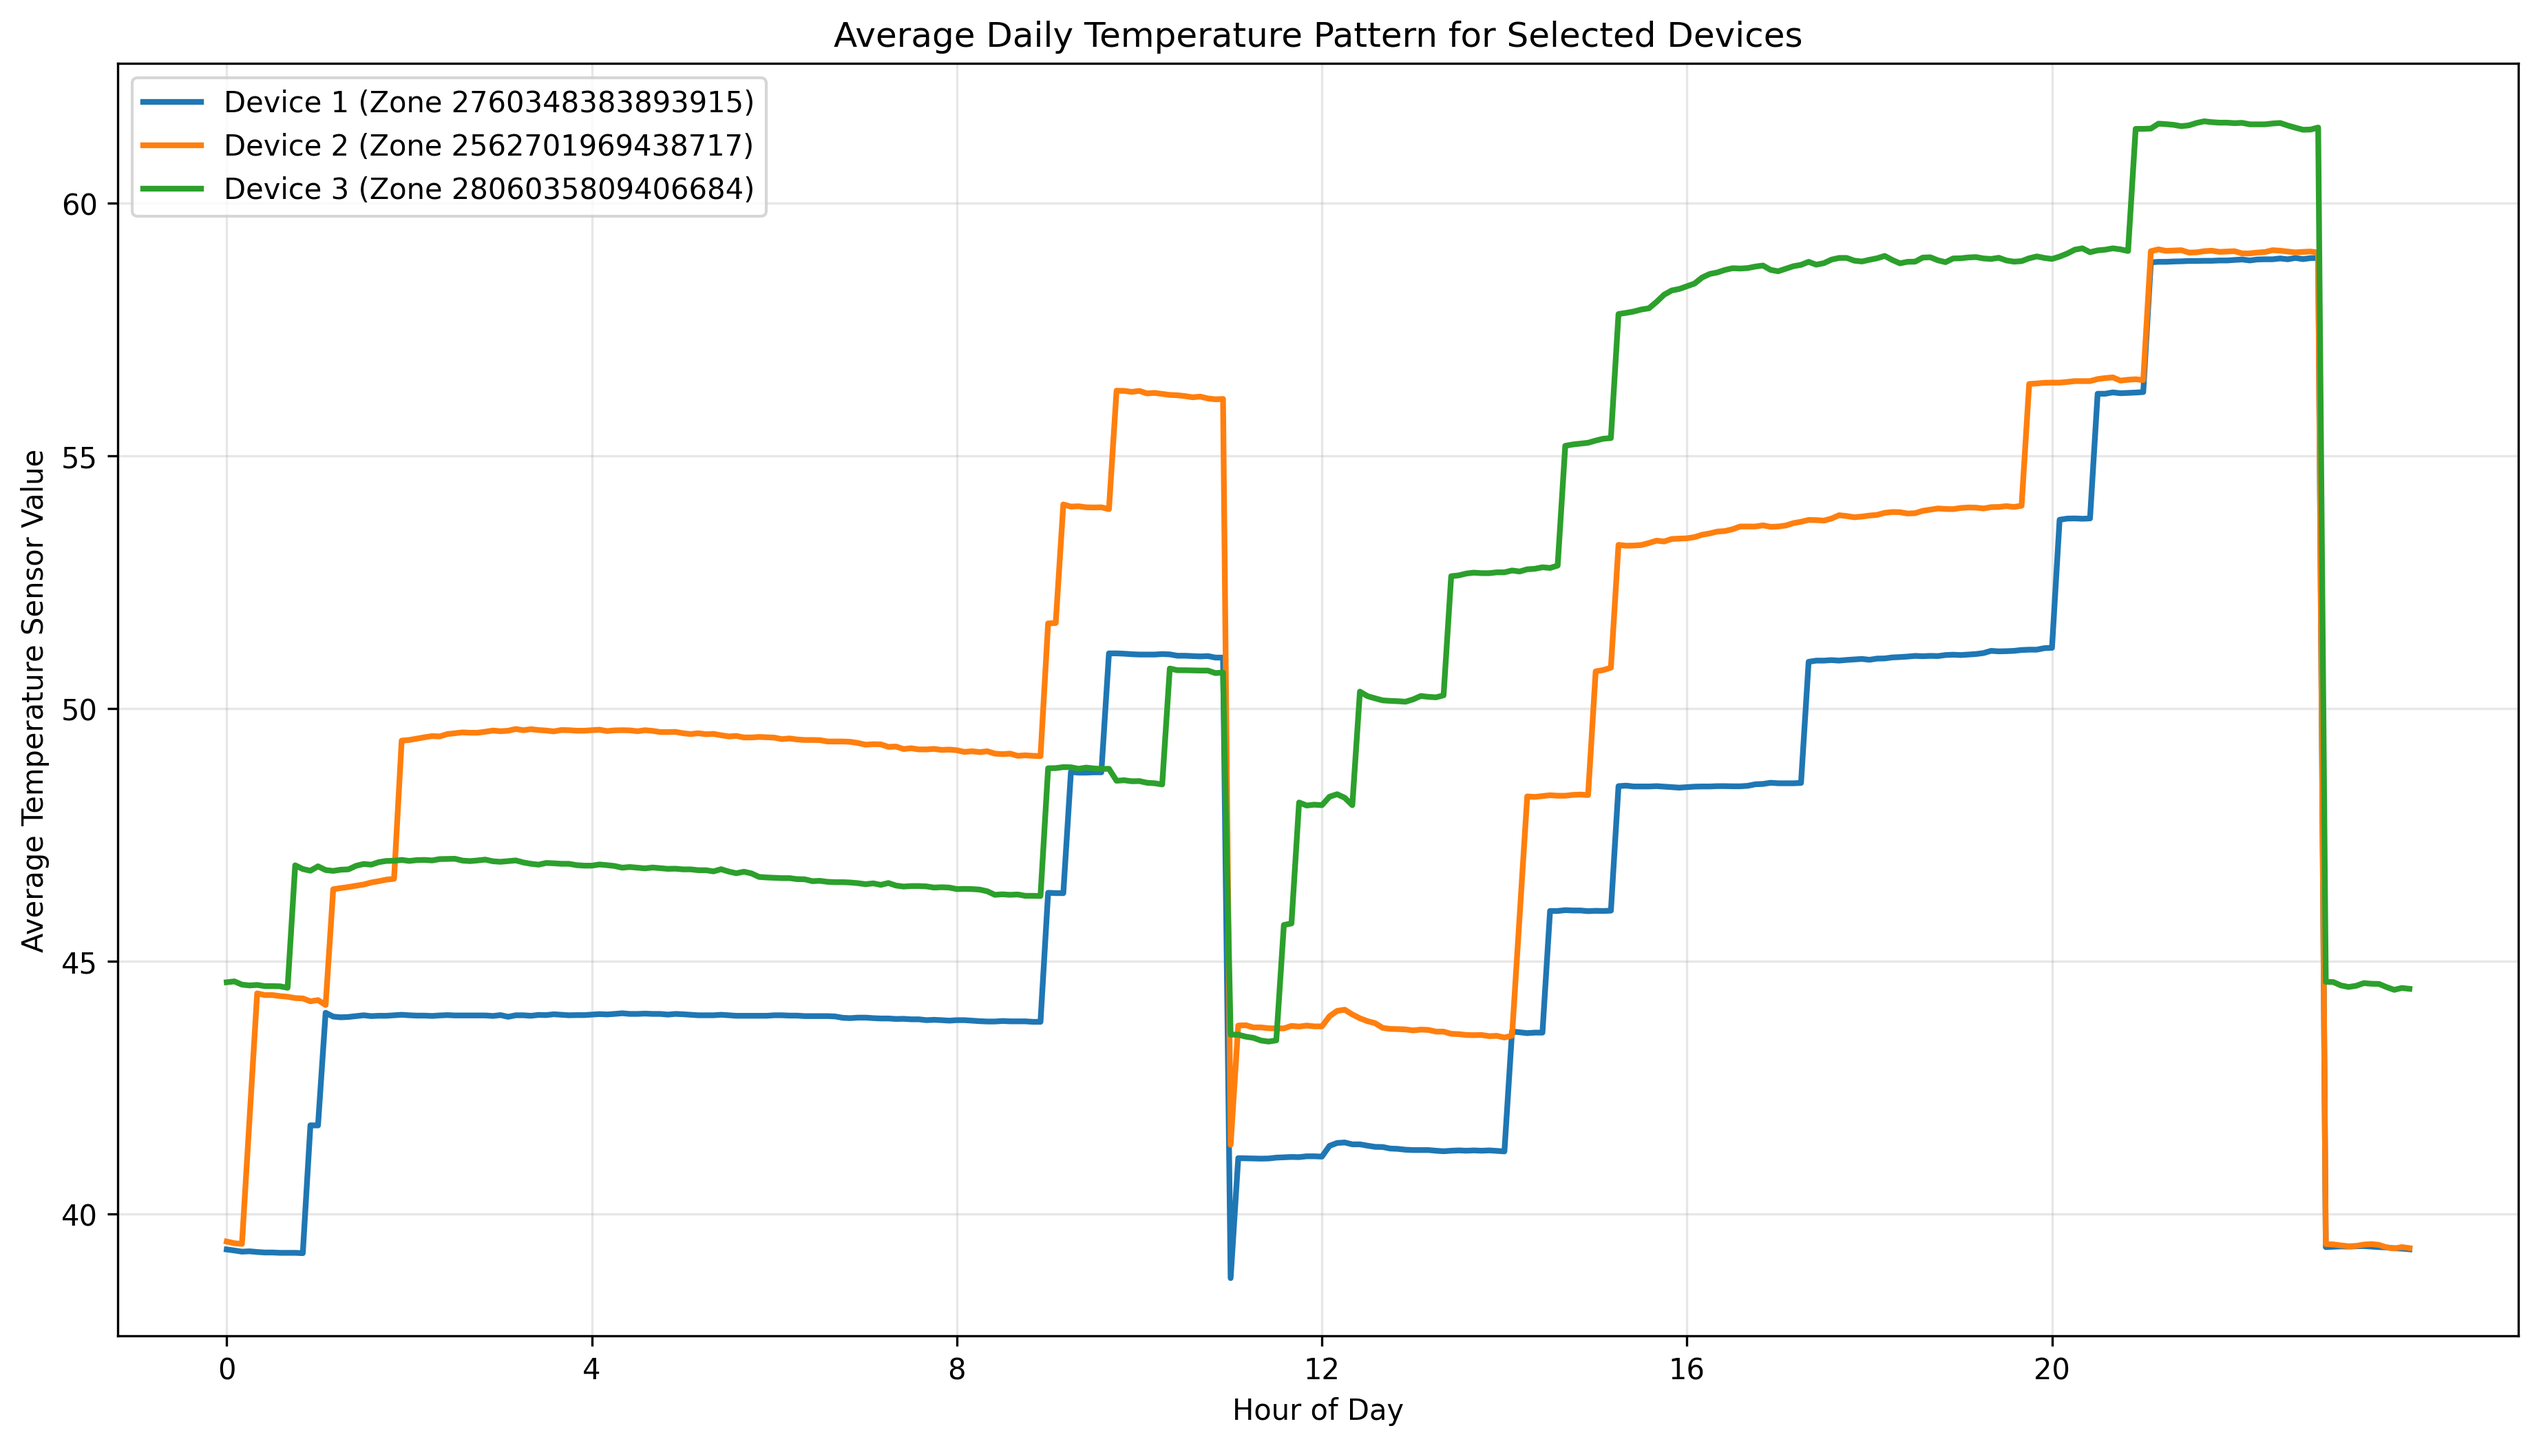
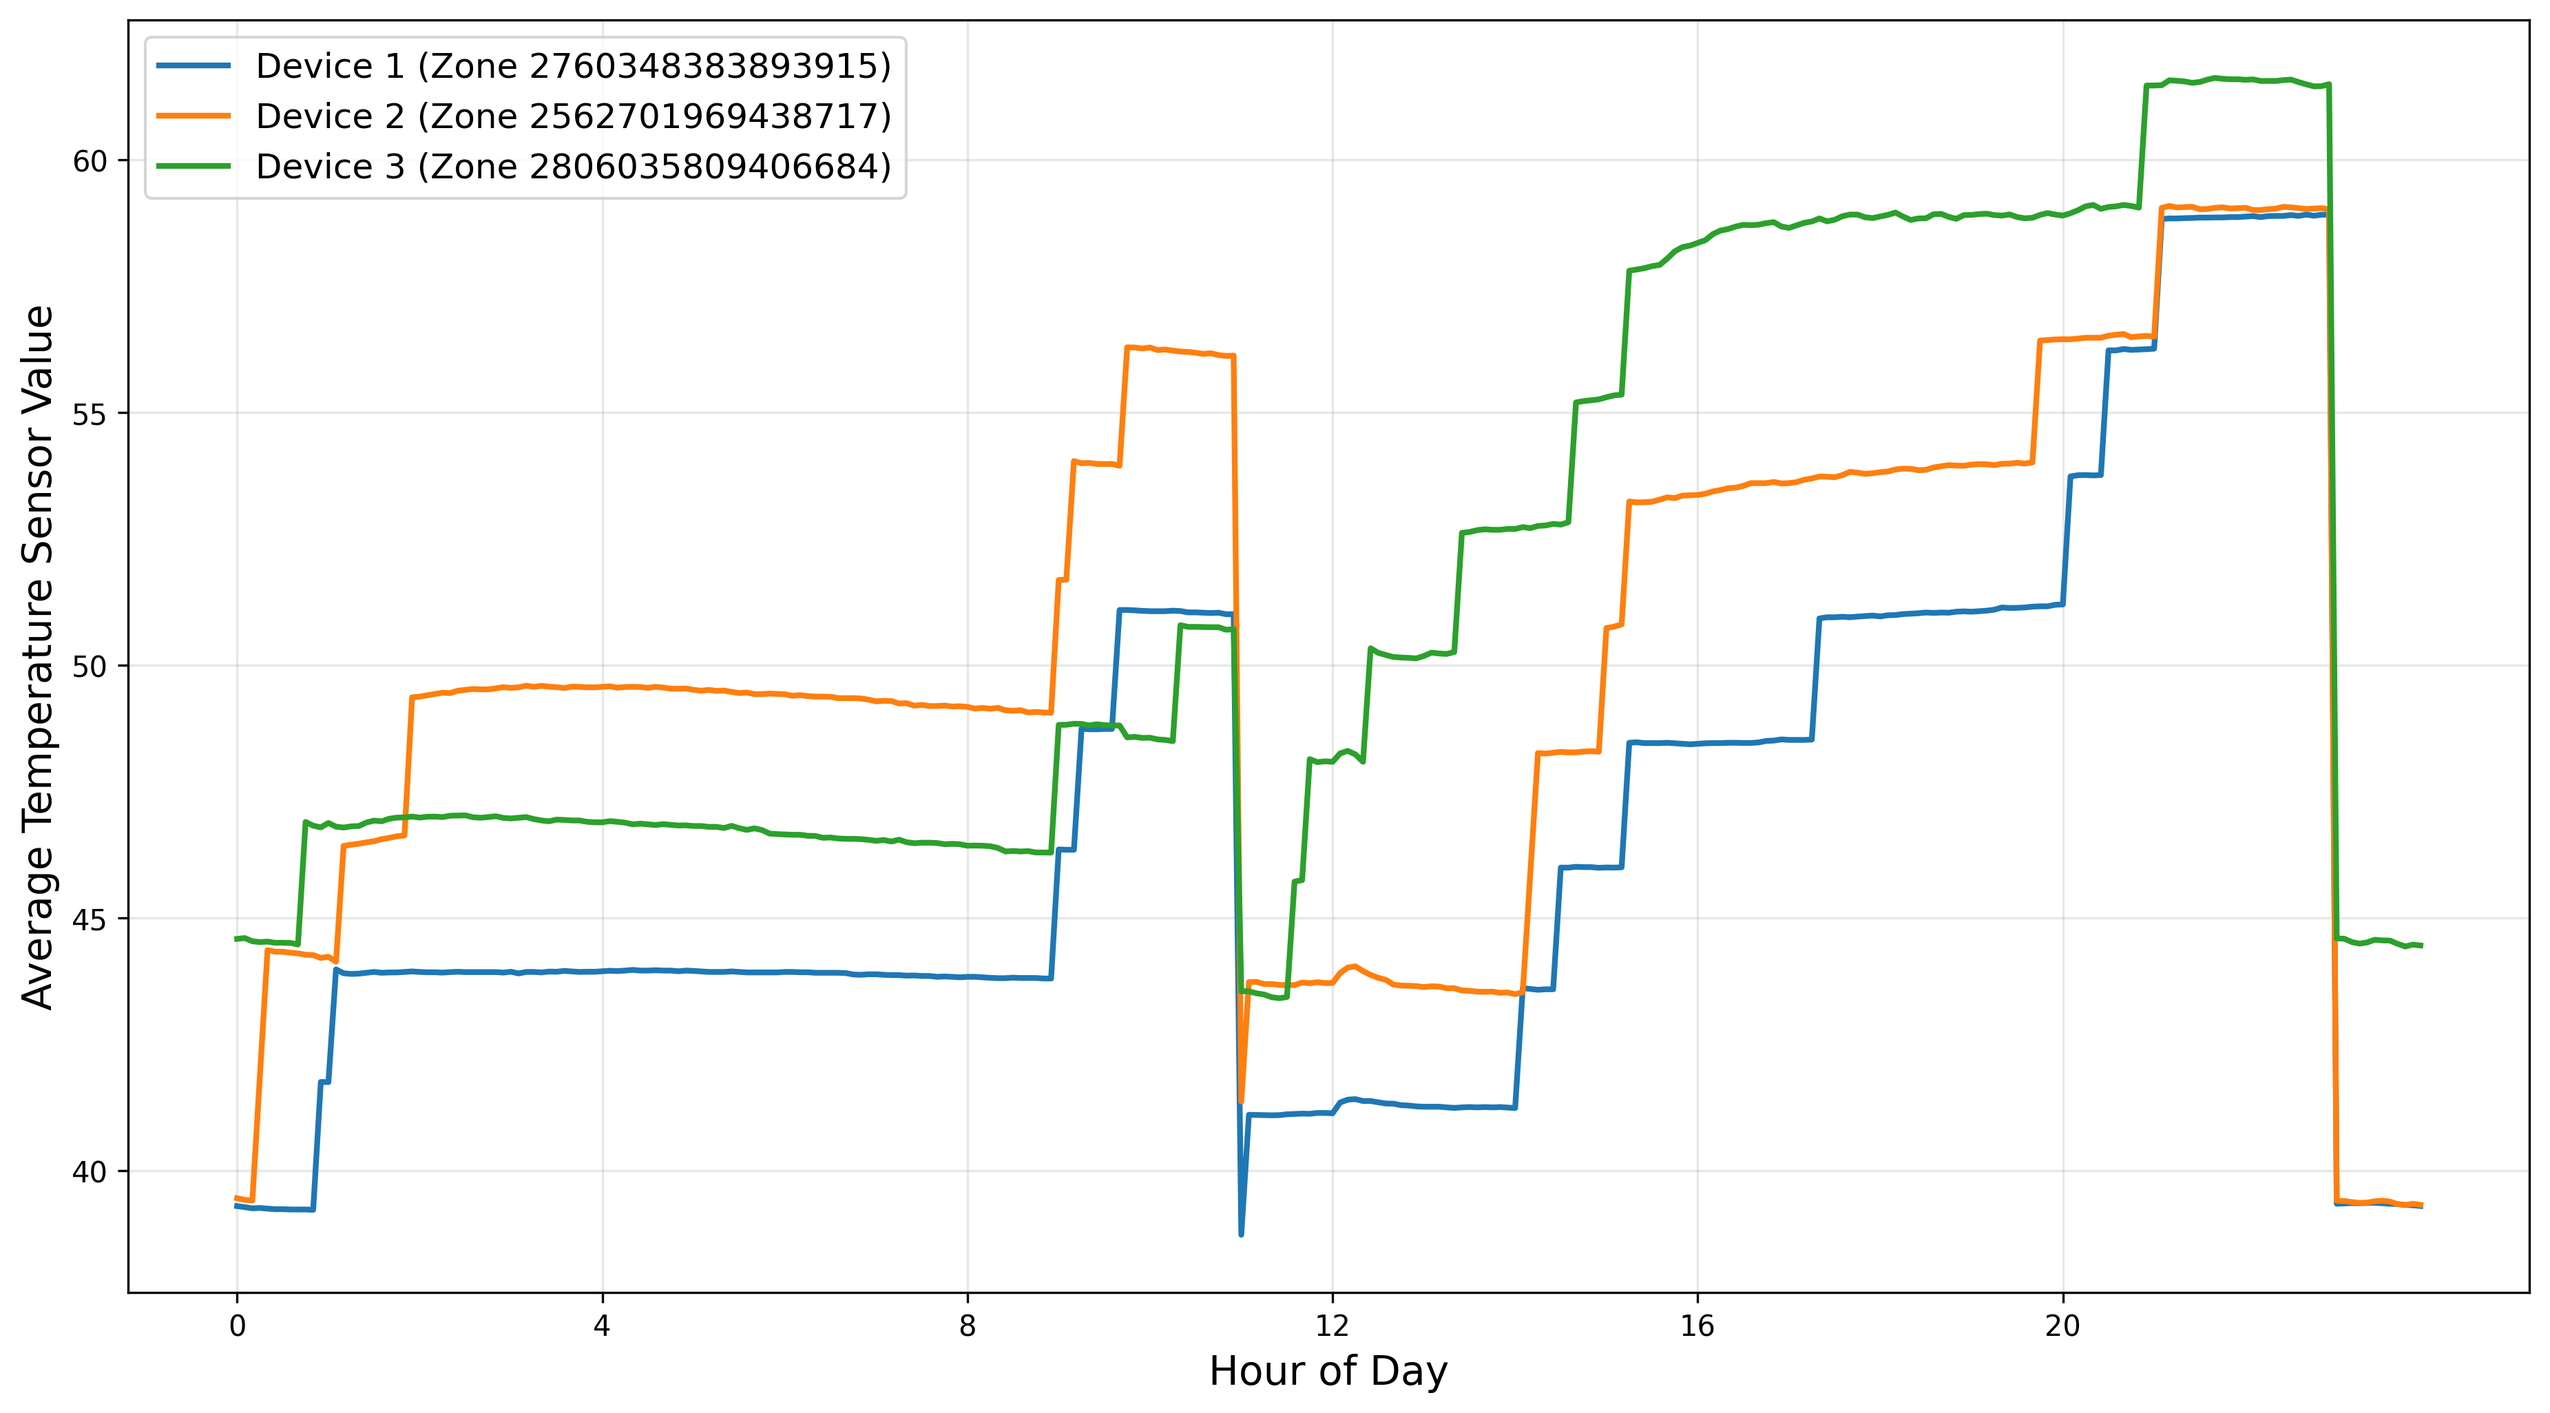
transformer forecast graph

diff --git a/temperature_visualization.py b/temperature_visualization.py
@@ -125,10 +125,9 @@ def visualize_temperature_devices():
             
             plt.plot(days, temperature_values, label=device_name, linewidth=1.5)
     
-    plt.xlabel('Days (June 2022)')
-    plt.ylabel('Temperature Sensor Value')
-    plt.title('Temperature of 3 Selected Devices Throughout Training Period (June 2022)')
-    plt.legend()
+    plt.xlabel('Days (June 2022)', fontsize=20)
+    plt.ylabel('Temperature Sensor Value', fontsize=20)
+    plt.legend(fontsize=12)
     plt.grid(True, alpha=0.3)
     
     # Add some statistics
@@ -144,7 +143,7 @@ def visualize_temperature_devices():
             print(f"  Std Deviation: {np.std(temp_values):.2f}")
     
     plt.tight_layout()
-    plt.savefig('temperature_visualization.png', dpi=300, bbox_inches='tight')
+    plt.savefig('graphs/temperature_visualization.png', dpi=300, bbox_inches='tight')
     plt.show()
     
     # Create a second plot showing temperature distribution
@@ -157,12 +156,11 @@ def visualize_temperature_devices():
             
             plt.hist(temp_values, bins=50, alpha=0.7, label=device_name, density=True)
     
-    plt.xlabel('Temperature Sensor Value')
-    plt.ylabel('Density')
-    plt.title('Temperature Distribution of Selected Devices')
-    plt.legend()
+    plt.xlabel('Temperature Sensor Value', fontsize=14)
+    plt.ylabel('Density', fontsize=14)
+    plt.legend(fontsize=12)
     plt.grid(True, alpha=0.3)
-    plt.savefig('temperature_distribution.png', dpi=300, bbox_inches='tight')
+    plt.savefig('graphs/temperature_distribution.png', dpi=300, bbox_inches='tight')
     plt.show()
     
     # Create a third plot showing daily patterns
@@ -182,13 +180,12 @@ def visualize_temperature_devices():
             
             plt.plot(hours_of_day, mean_daily_pattern, label=device_name, linewidth=2)
     
-    plt.xlabel('Hour of Day')
-    plt.ylabel('Average Temperature Sensor Value')
-    plt.title('Average Daily Temperature Pattern for Selected Devices')
-    plt.legend()
+    plt.xlabel('Hour of Day', fontsize=14)
+    plt.ylabel('Average Temperature Sensor Value', fontsize=14)
+    plt.legend(fontsize=12)
     plt.grid(True, alpha=0.3)
     plt.xticks(np.arange(0, 24, 4))
-    plt.savefig('daily_temperature_pattern.png', dpi=300, bbox_inches='tight')
+    plt.savefig('graphs/daily_temperature_pattern.png', dpi=300, bbox_inches='tight')
     plt.show()
 
 if __name__ == "__main__":
